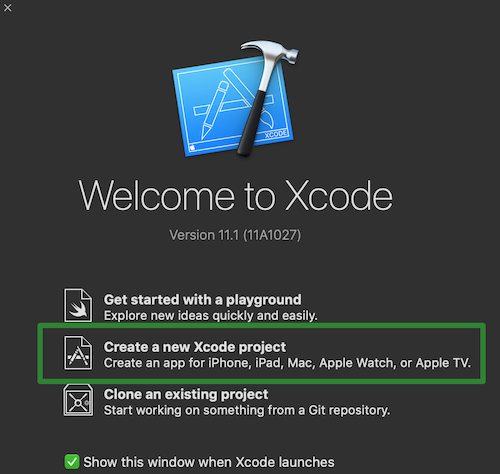
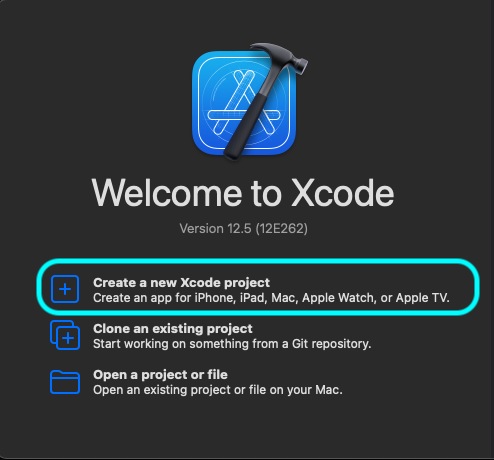
Update the "Create Project" section of the SwiftUI tutorial

diff --git a/src/docs/cookie-clicker-swiftui.md b/src/docs/cookie-clicker-swiftui.md
@@ -4,13 +4,13 @@ title: Cookie Clicker with SwiftUI
 
 This tutorial is an introduction to the world of iOS development using Apple's latest UI framework: [SwiftUI](https://developer.apple.com/xcode/swiftui/)
 
-We'll be building a counter app, where the user will press a button and increment the number on the screen.
+We'll be building a counter app, where the user will press a button and increment a number on the screen.
 
 ## Pre-requisites
 
-In order to work through this tutorial, you will need a Mac with Xcode 11 installed. Xcode 11 is the minimum version that supports SwiftUI. It is useful to have Mac OSX Catalina installed to see live previews in Xcode, but you can still use Mac OS X Mojave.
+In order to work through this tutorial, you will need a Mac with Xcode 12 installed.
 
-Download and install Xcode from the App Store. This may take a while — its a big program. If you are at a Codebar ask the coaches before downloading it from the App Store as they frequently have a copy on a USB drive which will save some installation time, but it would be better if you come to the workshop with it installed.
+Download and install Xcode from the App Store. This may take a while because of it's size. If you are at a Codebar event ask the coaches before downloading it from the App Store as they frequently have a copy on a USB drive which will save some installation time, but it would be better if you come to the workshop with it installed.
 
 ## Creating a Project
 
@@ -26,14 +26,15 @@ Download and install Xcode from the App Store. This may take a while — its
 
 - Product Name: Clicker
 - Team: None
-- Organization Name: Whatever you want — your name is always a good fill-in
-- Organization Identifier: com.(OrganizationName)
+- Organization Identifier: com.<your-name>
 
-Make sure Swift is selected as the language.
-  
-Make sure SwiftUI is selected as the User Interface.
+Make sure that SwiftUI is selected as the Interface.
 
-Make sure the three boxes at the bottom are unchecked, we won't be using those options in this tutorial.
+Make sure that SwiftUI App is selected as the Life Cycle.
+
+Make sure that Swift is selected as the Language.
+
+Make sure the remaining boxes are unchecked. We aren't going to be using Core Data in this project. Just because we aren't including tests at this stage doesn't mean that testing is not important in developing iOS apps. Just that we aren't going two be covering them in this first tutorial, and adding tests later is easily done.
 
 Click Next
 
@@ -43,7 +44,7 @@ Click Next
 
 Take some time to look around the project that's been created with your coach. What files are there? How do you run your app?
   
-If you are running on Mac OS X Catalina, try running the preview to see what the default project provides.
+If you are running on Mac OS Big Sur or Catalina, try running the project on the iOS simulator to see what the default project provides.
 
 If this is your first time running Xcode, then this may take a few minutes. This is normal, the next time you run the preview it will be much faster.
 
